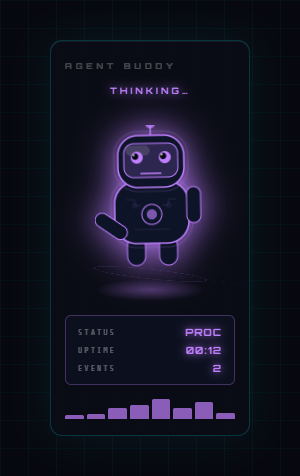
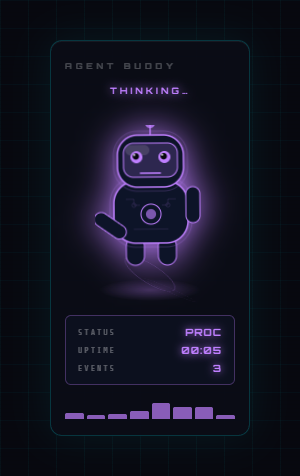
Force animation states directly instead of relying on click timing

diff --git a/generate-screenshots.js b/generate-screenshots.js
@@ -70,38 +70,33 @@ if (!fs.existsSync(screenshotsDir)) {
   await delay(500);
   
   const screenshots = [
-    { name: 'screenshot-idle.png', clicks: 0, expectedState: 'idle' },
-    { name: 'screenshot-thinking.png', clicks: 1, expectedState: 'thinking' },
-    { name: 'screenshot-planning.png', clicks: 2, expectedState: 'planning' },
-    { name: 'screenshot-searching.png', clicks: 3, expectedState: 'searching' },
-    { name: 'screenshot-editing.png', clicks: 4, expectedState: 'editing' },
-    { name: 'screenshot-terminal.png', clicks: 5, expectedState: 'terminal' },
-    { name: 'screenshot-success.png', clicks: 6, expectedState: 'success' },
-    { name: 'screenshot-error.png', clicks: 7, expectedState: 'error' },
-    { name: 'screenshot-sleeping.png', clicks: 8, expectedState: 'sleeping' }
+    { name: 'screenshot-idle.png', state: 'idle' },
+    { name: 'screenshot-thinking.png', state: 'thinking' },
+    { name: 'screenshot-planning.png', state: 'planning' },
+    { name: 'screenshot-searching.png', state: 'searching' },
+    { name: 'screenshot-editing.png', state: 'editing' },
+    { name: 'screenshot-terminal.png', state: 'terminal' },
+    { name: 'screenshot-success.png', state: 'success' },
+    { name: 'screenshot-error.png', state: 'error' },
+    { name: 'screenshot-sleeping.png', state: 'sleeping' }
   ];
   
-  // Take screenshots by cycling through states
+  // Take screenshots by directly setting the state
   for (const screenshot of screenshots) {
     try {
-      // Click to cycle through stages
-      if (screenshot.clicks > 0) {
-        for (let i = 0; i < screenshot.clicks; i++) {
-          await page.click('.buddy-svg');
-          // Longer delay to allow state transitions and animations to complete
-          await delay(1200);
-        }
-      }
+      // Force set the state directly (eliminates timing dependency)
+      await page.evaluate((stateName) => {
+        window.applyStage(stateName);
+      }, screenshot.state);
       
-      // Extra delay before capturing to ensure all animations have settled
-      await delay(800);
+      // Wait for animations to render
+      await delay(600);
       
-      // Wait for any animations to complete by checking if elements are stable
+      // Ensure all animations have completed
       await page.evaluate(() => {
         return new Promise(resolve => {
-          // Wait for the next frame and a bit longer for animations
           requestAnimationFrame(() => {
-            setTimeout(resolve, 400);
+            setTimeout(resolve, 300);
           });
         });
       });
@@ -112,7 +107,7 @@ if (!fs.existsSync(screenshotsDir)) {
         type: 'png'
       });
       
-      console.log(`✓ Generated ${screenshot.name} (${screenshot.expectedState} state)`);
+      console.log(`✓ Generated ${screenshot.name} (${screenshot.state} state)`);
     } catch (error) {
       console.error(`✗ Failed to generate ${screenshot.name}:`, error.message);
     }
